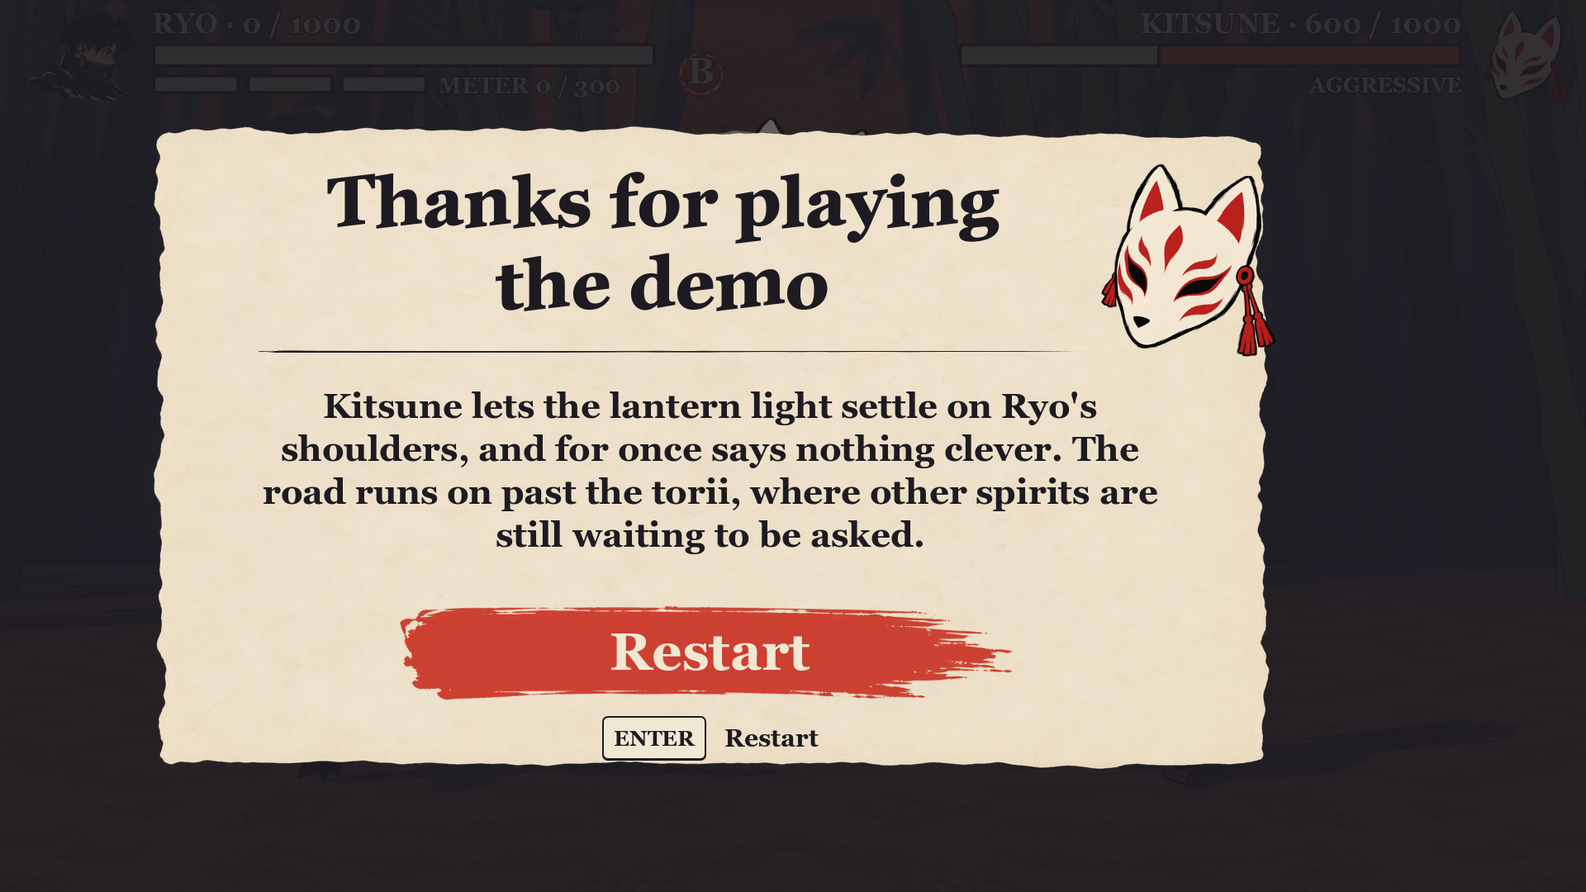
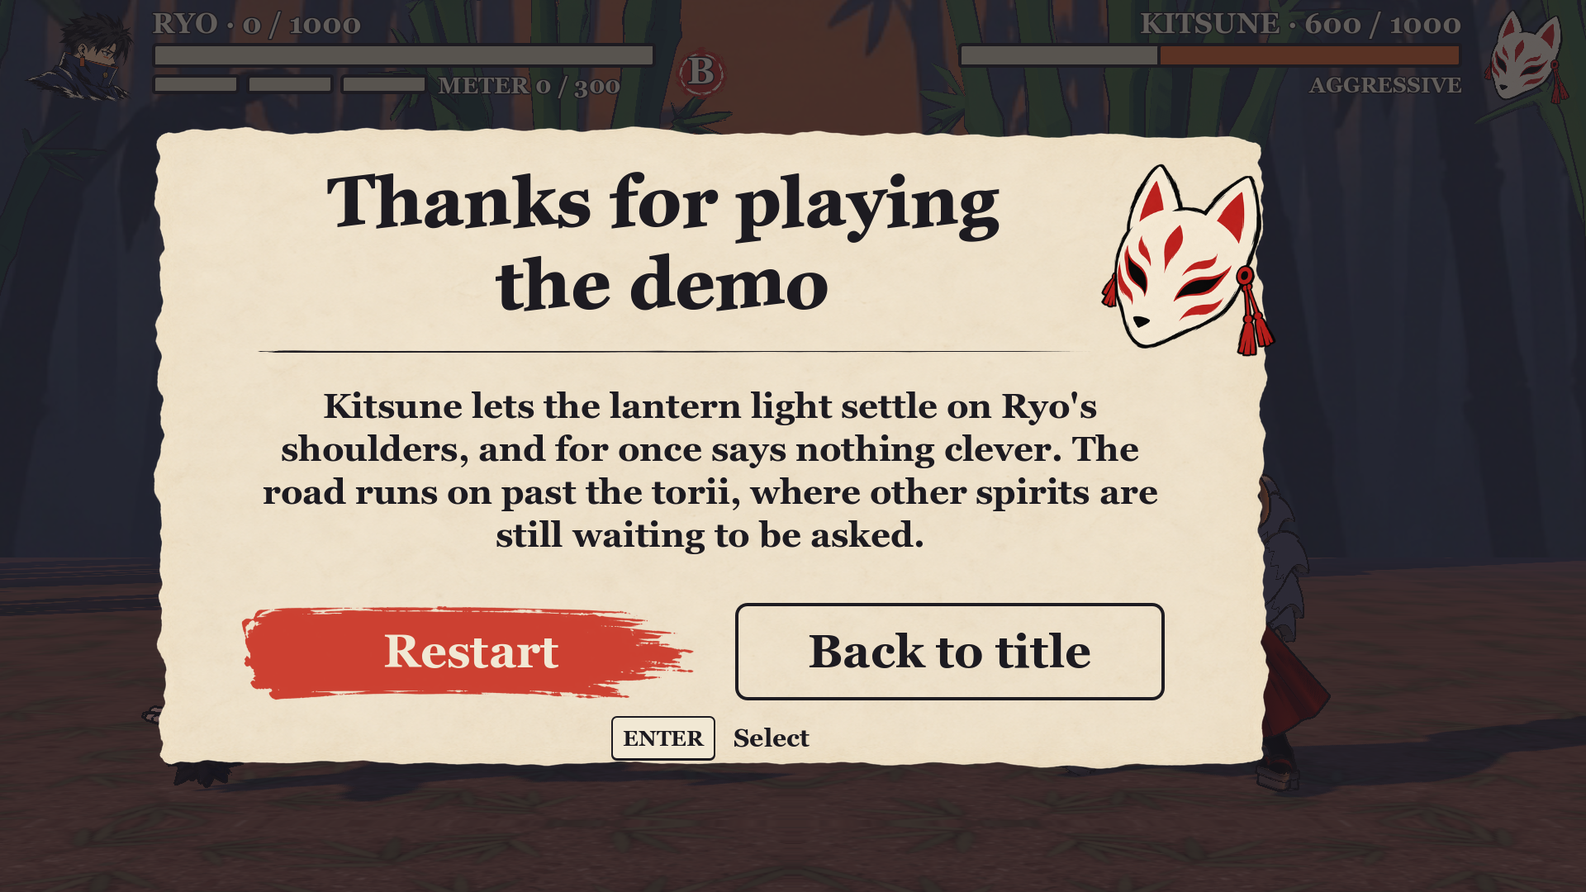
YOK-72: Back to title on the defeat and demo-complete screens
Ghost button beside Restart, routed through FightScene.RequestTitle like the pause
menu's Quit to title. The run has already ended, so the save holds no run.
Tests for routing, keyboard/pad and the save; captures at 1080p and 720p.

Claude-Session: https://claude.ai/code/session_01Q6LcGRk6VjhntCTFgSprQA

diff --git a/game/tests/EndScreenTitleTests.cs b/game/tests/EndScreenTitleTests.cs
@@ -1,0 +1,177 @@
+using System;
+using System.IO;
+using System.Linq;
+using Godot;
+using YokaiFighters.Fight;
+using YokaiFighters.Flow;
+using YokaiFighters.Sim;
+using YokaiFighters.Ui;
+
+namespace YokaiFighters.Tests;
+
+/// <summary>
+/// YOK-72: "Back to title" beside Restart on the lose screen and the demo-complete card. Both route through
+/// <see cref="FightScene.RequestTitle"/> like the pause menu's Quit to title; the run has ended by then, so the saved run is
+/// already gone and the title offers no Continue. A press outside the end stages, or with no boot flow, changes nothing.
+/// </summary>
+public static class EndScreenTitleTests
+{
+	static readonly FighterInput Idle = FighterInput.None;
+	static FighterInput Strike(int t) => new(t % 2 == 0 ? InputBits.DebugStrike : InputBits.None);
+	static void Press(Button b) => b.EmitSignal(BaseButton.SignalName.Pressed);
+	static void Push(Node n, InputEvent e) => n.GetViewport().PushInput(e);
+	static void Tap(Node n, Key k)
+	{
+		Push(n, new InputEventKey { Keycode = k, PhysicalKeycode = k, Pressed = true });
+		Push(n, new InputEventKey { Keycode = k, PhysicalKeycode = k, Pressed = false });
+	}
+	static void PadTap(Node n, JoyButton b)
+	{
+		Push(n, new InputEventJoypadButton { ButtonIndex = b, Pressed = true, Pressure = 1f });
+		Push(n, new InputEventJoypadButton { ButtonIndex = b, Pressed = false });
+	}
+
+	static void LoseDuel(FightScene s)
+	{
+		for (int t = 0; t < 600 && s.Match.Phase != MatchPhase.Over; t++) s.Step(Idle, Strike(t));
+		Assert.Equal(1, s.Match.Winner, "Kitsune won");
+	}
+	static void WinDuel(FightScene s, int taken)
+	{
+		for (int t = 0; t < taken * 2; t++) s.Step(Idle, Strike(t));
+		for (int t = 0; t < 600 && s.Match.Phase != MatchPhase.Over; t++) s.Step(Strike(t), Idle);
+		Assert.Equal(0, s.Match.Winner, "Ryo won");
+	}
+
+	/// <summary>A standalone fight in a viewport of its own (clean focus and input).</summary>
+	static void WithScene(Node runner, Action<FightScene> body)
+	{
+		var saved = FightScene.Sources; var savedRun = FightScene.Run;
+		FightScene.Sources = FightScene.FixtureSources; FightScene.Run = null;
+		var stage = new SubViewport { Size = new Vector2I(1920, 1080), Name = "EndTitleStage" };
+		runner.AddChild(stage);
+		try
+		{
+			var s = GD.Load<PackedScene>("res://scenes/fight.tscn").Instantiate<FightScene>();
+			s.ExternalDrive = true; s.FixedRunSeed = 72;
+			s.HeldBitsSource = () => InputBits.None;
+			stage.AddChild(s);
+			body(s);
+		}
+		finally { runner.RemoveChild(stage); stage.QueueFree(); FightScene.Sources = saved; FightScene.Run = savedRun; }
+	}
+
+	static void ReachComplete(FightScene s)
+	{
+		WinDuel(s, 1);
+		s.BindingCard.Continue();
+		var cards = s.Draft!.Offer.Cards;
+		int i = cards.ToList().FindIndex(c => c.Kind == Ui.CardKind.Modifier);
+		while (s.Rewards.CardCursor != i) s.Rewards.Move(1);
+		s.Rewards.Confirm(); s.Rewards.Confirm();
+		WinDuel(s, 0);
+		Assert.Equal(DemoStage.Complete, s.Stage, "demo complete");
+	}
+
+	[Test]
+	public static void LoseScreen_BackToTitle_RoutesOnce_RestartStillWorks(Node runner) => WithScene(runner, s =>
+	{
+		int titles = 0; s.TitleRequested += () => titles++;
+		Assert.True(!s.LeaveForTitle() && titles == 0, "refused mid-fight, nothing raised");
+		LoseDuel(s);
+		var lose = s.GetNode<LoseScreen>("Hud/LoseScreen");
+		Assert.True(lose.Visible && lose.BackToTitle.Visible, "lose screen with the button");
+		Assert.True(lose.BackToTitle.GetParent() == lose.Restart.GetParent() && lose.Restart.GetNode(lose.Restart.FocusNeighborRight) == lose.BackToTitle, "beside Restart, reachable by right");
+		Assert.True(lose.Restart.GetNode(lose.BackToTitle.FocusNeighborLeft) == lose.Restart, "and back by left");
+		Press(lose.BackToTitle);
+		Assert.Equal(1, titles, "Back to title raised TitleRequested once");
+		Press(lose.Restart);
+		Assert.Equal(1, titles, "Restart does not route to the title");
+		Assert.Equal(DemoStage.Fighting, s.Stage, "Restart gave a fresh run");
+	});
+
+	[Test]
+	public static void LoseScreen_KeyboardAndPad_ReachBackToTitle(Node runner) => WithScene(runner, s =>
+	{
+		int titles = 0; s.TitleRequested += () => titles++;
+		LoseDuel(s);
+		var lose = s.GetNode<LoseScreen>("Hud/LoseScreen");
+		Assert.True(lose.Restart.HasFocus(), "Restart focused first");
+		Tap(s, Key.Right);
+		Assert.True(lose.BackToTitle.HasFocus(), "Right moves to Back to title");
+		Tap(s, Key.Enter);
+		Assert.Equal(1, titles, "Enter presses it");
+		lose.Restart.GrabFocus();
+		PadTap(s, JoyButton.DpadRight);
+		Assert.True(lose.BackToTitle.HasFocus(), "pad d-pad moves too");
+		PadTap(s, JoyButton.A);
+		Assert.Equal(2, titles, "pad A presses it");
+	});
+
+	[Test]
+	public static void DemoComplete_BackToTitle_RoutesOnce(Node runner) => WithScene(runner, s =>
+	{
+		int titles = 0; s.TitleRequested += () => titles++;
+		ReachComplete(s);
+		var c = s.CompleteScreen;
+		Assert.True(c.Restart.HasFocus(), "Restart focused first");
+		Tap(s, Key.Right);
+		Assert.True(c.BackToTitle.HasFocus(), "Right moves to Back to title");
+		Tap(s, Key.Enter);
+		Assert.Equal(1, titles, "Enter routes to the title once");
+		Assert.Equal(DemoStage.Complete, s.Stage, "the scene itself did not restart; the boot flow owns the switch");
+		Press(c.Restart);
+		Assert.Equal(1, titles, "Restart does not route to the title");
+		Assert.Equal(DemoStage.Fighting, s.Stage, "Restart gave a fresh run");
+	});
+
+	[Test]
+	public static void BackToTitle_WithNoBootFlow_StaysOnTheScreen(Node runner) => WithScene(runner, s =>
+	{
+		LoseDuel(s);
+		Press(s.GetNode<LoseScreen>("Hud/LoseScreen").BackToTitle);
+		Assert.True(s.GetNode<Control>("Hud/LoseScreen").Visible && s.Stage == DemoStage.Lost, "nothing listening: the lose screen stays");
+	});
+
+	[Test]
+	public static void LoseScreen_BackToTitle_ThroughBootFlow_LeavesTheSaveWithoutARun(Node runner)
+	{
+		string dir = Path.Combine(Path.GetTempPath(), "yokai-endtitle-" + Guid.NewGuid().ToString("N"));
+		Directory.CreateDirectory(dir);
+		string save = Path.Combine(dir, "progress.json");
+		var saved = FightScene.Sources; var savedRun = FightScene.Run; var savedFoe = FightScene.Opponent;
+		FightScene.Sources = FightScene.FixtureSources; FightScene.Run = null;
+		MenuSettings.Reset();
+		var flow = GD.Load<PackedScene>("res://scenes/boot.tscn").Instantiate<GameFlow>();
+		flow.QuitAction = () => { };
+		flow.FixedRunSeed = 72;
+		flow.SaveFile = save;
+		flow.ConfigureFight = f => { f.ExternalDrive = true; f.HeldBitsSource = () => InputBits.None; };
+		var stage = new SubViewport { Size = new Vector2I(1920, 1080), Name = "EndTitleBootStage" };
+		runner.AddChild(stage);
+		try
+		{
+			stage.AddChild(flow);
+			Press(flow.Title.StartButton);
+			Press(flow.ControlSelect.Start);
+			Assert.True(flow.ChooseNode(flow.Session!.Reachable()[0]).Ok, "entered the first node");
+			Assert.True(flow.Saved.Run != null && File.Exists(save), "the run is saved while it lives");
+			string held = File.ReadAllText(save);
+			var fight = flow.Fight!;
+			LoseDuel(fight);
+			Assert.True(flow.Saved.Run == null, "the run ended: the saved run is gone");
+			Assert.True(File.ReadAllText(save) != held, "and the file on disk was rewritten without it");
+			Press(fight.GetNode<LoseScreen>("Hud/LoseScreen").BackToTitle);
+			Assert.Equal(Screen.Title, flow.Router.Current, "back on the title");
+			Assert.True(flow.Fight == null && flow.Title.Visible, "fight freed, title shown");
+			Assert.True(flow.Title.ContinueButton.Disabled, "no Continue for the ended run");
+		}
+		finally
+		{
+			runner.RemoveChild(stage); stage.QueueFree();
+			MenuSettings.Reset();
+			FightScene.Sources = saved; FightScene.Run = savedRun; FightScene.Opponent = savedFoe;
+			try { Directory.Delete(dir, true); } catch (IOException) { }
+		}
+	}
+}

diff --git a/game/scripts/Fight/FightScene.Flow.cs b/game/scripts/Fight/FightScene.Flow.cs
@@ -89,6 +89,16 @@ public partial class FightScene
 		TitleRequested.Invoke();
 		return true;
 	}
+	/// <summary>YOK-72: Back to title on the lose and demo-complete screens. Same route as the pause menu's Quit to title.
+	/// The run has already ended by then, so the boot flow cleared the saved run when it ended (YOK-87) and the title offers no Continue.
+	/// With no boot flow listening (scene on its own) nothing changes and the screen stays.</summary>
+	public bool LeaveForTitle()
+	{
+		if (Stage is not (DemoStage.Lost or DemoStage.Complete)) return false;
+		if (RequestTitle()) return true;
+		GD.Print("FightScene: Back to title with no boot flow listening (scene opened on its own); staying on the end screen");
+		return false;
+	}
 	/// <summary>Buttons held when the fight was entered (Start Game) or a Restart was pressed: ignored as P1 input until released, so Space does not fire a Special.</summary>
 	private InputBits _suppress;
 	/// <summary>Which fight of the walk this is: 1 = the first node (the demo: 1 = the first fight, 2 = the rematch).</summary>
@@ -174,6 +184,7 @@ public partial class FightScene
 		Rewards.Picked += (_, _) => FinishNode();
 		CompleteScreen = GetNode<DemoCompleteScreen>("Flow/Complete");
 		CompleteScreen.RestartRequested += RestartRun;
+		CompleteScreen.TitleRequested += () => LeaveForTitle();
 		ApplyDemoCompleteCard();
 		if (!ExternalDrive) _suppress = HeldBits(); // entered from a menu: the Space/A that pressed Start Game must not fire a Special
 		if (!OS.IsDebugBuild()) { GetNode("DebugMenuLayer").QueueFree(); return; } // the debug menu is for debug builds only

diff --git a/game/scripts/Fight/DemoCompleteScreen.cs b/game/scripts/Fight/DemoCompleteScreen.cs
@@ -12,8 +12,9 @@ namespace YokaiFighters.Fight;
 /// </summary>
 public partial class DemoCompleteScreen : Control
 {
-	public event Action? RestartRequested;
+	public event Action? RestartRequested, TitleRequested;
 	public Button Restart { get; private set; } = null!;
+	public Button BackToTitle { get; private set; } = null!;
 	/// <summary>Placeholders until <see cref="SetText"/> fills them from data/story/demo-complete.json.</summary>
 	public const string PlaceholderTitle = "Demo complete", PlaceholderText = "Thanks for playing.";
 	public string TitleText { get; private set; } = PlaceholderTitle;
@@ -31,12 +32,14 @@ public partial class DemoCompleteScreen : Control
 
 	public override void _Ready()
 	{
-		UiFind.Get<KeyChipFooter>(this, "Footer").SetHints(new KeyHint("confirm", "Restart"));
+		UiFind.Get<KeyChipFooter>(this, "Footer").SetHints(new KeyHint("confirm", "Select"));
 		_title = UiFind.Get<Label>(this, "Title");
 		_sub = UiFind.Get<Label>(this, "Sub");
 		Restart = UiFind.Get<Button>(this, "Restart");
 		_title.Text = TitleText; _sub.Text = BodyText;
+		BackToTitle = UiFind.Get<Button>(this, "BackToTitle");
 		Restart.Pressed += () => RestartRequested?.Invoke();
+		BackToTitle.Pressed += () => TitleRequested?.Invoke();
 		Visible = false;
 	}
 

diff --git a/game/scripts/Fight/LoseScreen.cs b/game/scripts/Fight/LoseScreen.cs
@@ -14,19 +14,22 @@ public partial class LoseScreen : Control
 {
 	public const string PlaceholderTitle = "Ryo is defeated", PlaceholderText = "The yokai slips free.";
 
-	public event Action? RestartRequested;
+	public event Action? RestartRequested, TitleRequested;
 	public string Title { get; private set; } = PlaceholderTitle;
 	public string Text { get; private set; } = PlaceholderText;
 	public Button Restart { get; private set; } = null!;
+	public Button BackToTitle { get; private set; } = null!;
 	private Label? _title, _text;
 
 	public override void _Ready()
 	{
-		UiFind.Get<KeyChipFooter>(this, "Footer").SetHints(new KeyHint("confirm", "Restart"));
+		UiFind.Get<KeyChipFooter>(this, "Footer").SetHints(new KeyHint("confirm", "Select"));
 		_title = UiFind.Get<Label>(this, "Title");
 		_text = UiFind.Get<Label>(this, "Sub");
 		Restart = UiFind.Get<Button>(this, "Restart");
+		BackToTitle = UiFind.Get<Button>(this, "BackToTitle");
 		Restart.Pressed += () => RestartRequested?.Invoke();
+		BackToTitle.Pressed += () => TitleRequested?.Invoke();
 		_title.Text = Title; _text.Text = Text;
 		Visible = false;
 	}

diff --git a/game/scripts/Fight/FightHud.cs b/game/scripts/Fight/FightHud.cs
@@ -26,6 +26,8 @@ public partial class FightHud : CanvasLayer
 
 	/// <summary>Raised by the lose screen's Restart button; the scene wires it to its reset path.</summary>
 	public event Action? RestartRequested;
+	/// <summary>Raised by the lose screen's Back to title button; the scene routes it to <c>LeaveForTitle</c>.</summary>
+	public event Action? TitleRequested;
 
 	private Label _banner = null!, _meterText = null!;
 	private LoseScreen _lose = null!;
@@ -39,6 +41,7 @@ public partial class FightHud : CanvasLayer
 		_banner = UiFind.Get<Label>(this, "Banner");
 		_lose = UiFind.Get<LoseScreen>(this, "LoseScreen");
 		_lose.RestartRequested += () => RestartRequested?.Invoke();
+		_lose.TitleRequested += () => TitleRequested?.Invoke();
 		for (int i = 0; i < 2; i++)
 		{
 			_health[i] = UiFind.Get<ProgressBar>(this, $"P{i + 1}Health");

diff --git a/game/scripts/Fight/FightScene.cs b/game/scripts/Fight/FightScene.cs
@@ -201,6 +201,7 @@ public partial class FightScene : Node3D
 		_camera = _cameraRig.FindChild("Camera", true, false) as Camera3D ?? throw new System.InvalidOperationException("camera_rig.tscn: no Camera3D named 'Camera'");
 		_hud = GetNode<FightHud>("Hud"); // YOK-39: scenes/ui/hud.tscn, an instance in fight.tscn
 		_hud.ShowOpponent(Opponent); // YOK-77: the HUD's own _Ready ran before the node set the opponent
+		_hud.TitleRequested += () => LeaveForTitle();
 		_hud.RestartRequested += RestartRun; // YOK-48: Restart = a fresh run from the first fight
 		_hud.View = new MatchHudView(Match, 0); // YOK-20: Ryo's live meter and burst
 		ApplyLoseCard(); // YOK-44: the lose-screen story card, {yokai} = the opponent

diff --git a/game/tests/HudCapture.cs b/game/tests/HudCapture.cs
@@ -22,6 +22,7 @@ public partial class HudCapture : Node
 		for (int t = 0; t < 600 && scene.Match.Phase != MatchPhase.Over; t++)
 			scene.Step(FighterInput.None, new FighterInput(t % 2 == 0 ? InputBits.DebugStrike : InputBits.None));
 		await Snap(dir + "/hud_lose.png");
+		scene.GetNode<Control>("Hud/LoseScreen").Visible = false; // the card, not both stacked
 		scene.CompleteScreen.Show();
 		await Snap(dir + "/demo_complete.png");
 		GetTree().Quit();

diff --git a/docs/codebase-map.md b/docs/codebase-map.md
@@ -118,7 +118,7 @@ Pure C# (no Godot), deterministic. Y1/Y2/Y4/P6: P2 plays from a behaviour profil
 |---|---|
 | `FightScene.cs` (`scenes/fight.tscn`) | Owns `Match` + `FixedStepClock`; each `_Process` runs the due ticks then `Render()`s. Stage in `FightScene.Stage.cs` (YOK-39), capsule fighters (YOK-53: hidden under the rigged models, see `FightScene.Models.cs`; mirrored by `Scale.X = Facing`, "Nose" marks facing; KO'd fighter tips over across the 30 slow frames), camera = `scenes/camera_rig.tscn` instanced as `CameraRig` (YOK-39: `Camera` child, FOV 25° in the scene, F4; `Render` puts the rig at `Cam.Transform` (YOK-129 `DynamicCamera`: position + pitch, stepped once per sim tick in `StepSim`, snapped on a new or reset match; `CameraPushIn` for the V7 Tanuki reveal), shake via the camera's H/V offset; `Camera`/`CameraRig` properties), 200 units per metre, fixed Z = 0. `ExternalDrive` + `Step()` let tests/harness drive it without the clock or keyboard. Moves (YOK-56): `NewMatch()` loads P1 = `Kit.Ryo`, P2 = `FightScene.Opponent` (default "kitsune", the AI loadout) through `LoadKit(fighter)` from `FightScene.Sources` (`KitSources.Repo`; tests swap in `FightScene.FixtureSources` and restore it). `LoadMoves(fighter = ryo)` / `LoadSpecials(fighter = ryo)` return that kit; `LoadAbilityPool()` = `AbilityPool.Load(Sources, data/modifiers)`. Controls: `InputDevices.Read(player)` (E9) feeds raw bits to `Match`; each fighter's `InputReader` parses them in the sim. YOK-23 (minimum of YOK-25): `FightScene.DefaultScheme` (Kihon for the demo) is applied to both fighters in `NewMatch()`; `SchemeOf`/`SetScheme(player, scheme)`/`ToggleScheme(player)` per player, safe mid-fight; no rebinding UI. R resets after KO. Ryo's kit adds the TEST FIXTURE normals in `tests/fixtures/ryo-normals/`, throw in `tests/fixtures/throws/` (YOK-19) and jump-ins per kind while `data/moves/` has none of his of that kind. Crouch shows as a squashed capsule (placeholder). YOK-21: `NewMatch()` equips each fighter's kit specials (A1: each into its own slot, Lv 1; Ryo = starters, Kitsune = Foxfire in C; `EquipStarters` kept for tests); projectiles render as glowing placeholder boxes sized from their hitbox. Every `Match.Step` goes through `StepSim` (YOK-49 recording). |
 | `FightScene.Ai.cs` | YOK-57: `TierOf(node)` = Tanuki (boss / copy-lock node or tier "tanuki"), Elder (`Elder` flag or tier "elder"), else Standard; passed to `ProfileAi` in `RebuildAi`. YOK-27 partial: P2 is `ProfileAi`-driven by default (`P2Input()` = `ai.Next(AiView.Capture(Match))`, else `InputDevices.Read(1)`). `LoadProfiles()`: kitsune profiles in `data/profiles/`, else the TEST FIXTURE profiles in `tests/fixtures/profiles/` (aggressive first). `RebuildAi()` on `_Ready`/reset/swap (fresh delay buffer, `AiSeed` 27). Debug builds: **F6** swaps temperament, **F7** toggles P2 AI/keyboard (`SwapTemperament`, `ToggleP2Ai`). `StepWithAi(p1)` for ExternalDrive tests. |
-| `FightScene.Flow.cs` | YOK-48 partial, the YOK-39 demo flow. **YOK-77:** each fight is now one node of a `RunSession` (see Run flow): `DemoRun` = `Session.Run`, the win path calls `Session.WinFight` / `CompleteNode` (`StartRematch` became `FinishNode`: on its own the scene enters the next node, hosted it sets `DemoStage.Left` and the boot flow shows the map), a loss calls `Session.LoseFight`, `DemoDuels` became `Duels`, the last node shows the end card (demo text on its own, a placeholder when hosted). What follows describes the scene on its own (the demo map). `_Ready` starts with `SetUpRun()` (`Pool = LoadAbilityPool()`, `DemoRun = Run ?? RunState.NewRun(pool)`, `Match = NewMatch(DemoRun)`) and ends with `SetUpFlow()` (CanvasLayer "Flow": `BindingCard` (`Ui.StoryCard`), `Rewards` (`Ui.RewardScreen`), `CompleteScreen`; debug builds: `DebugMenu`). `CheckDuelOver()` runs after every step (clock loop and `Step`): once per duel it finishes the recording into `DuelRecordings` (Recorder = null until the next fight); loss (or double KO) → `Stage = Lost` (HUD lose screen); win → `DemoRun.AfterDuel(P1.Health)` (R3), duel 1 → `Draft = DraftRewardSource(RewardDraft.Build(DemoRun, Pool, Opponent, RunSeed + Duel))` + binding line card → `ShowRewards` → `Picked` → `StartRematch()` (`ReplaceMatch(NewMatch(DemoRun))`: new HUD view, impact/shake, AI, recording, clock); duel 2 → `Stage = Complete`. `RestartRun()` (HUD lose Restart, demo-complete Restart, debug menu) = fresh `RunState`, duel 1, recordings cleared. `DemoStage` Fighting/Binding/Reward/Complete/Lost (no Title stage: the scene always starts in the fight; menus are the boot flow's), `PlayerScheme` (null = `DefaultScheme`; set by `GameFlow` before the scene enters the tree and applied to P1 in every duel through `NewDuel()`), `RequestTitle()` / `TitleRequested` (leave for the title; false when the scene runs on its own), `P1Live()` masks buttons held on entry (not `ExternalDrive`) or at Restart until released, `Duel` 1-2, `DemoDuels` 2. Debug: **F9** `ToggleDebugMenu()` (pauses `_Process` stepping; clock restarted on close), `SetTemperament("patient")`, `Temperament`, `--temperament=<t>` user arg. `ResetFight()` (R after KO) replays the current duel and closes the flow screens. |
+| `FightScene.Flow.cs` | YOK-48 partial, the YOK-39 demo flow. **YOK-77:** each fight is now one node of a `RunSession` (see Run flow): `DemoRun` = `Session.Run`, the win path calls `Session.WinFight` / `CompleteNode` (`StartRematch` became `FinishNode`: on its own the scene enters the next node, hosted it sets `DemoStage.Left` and the boot flow shows the map), a loss calls `Session.LoseFight`, `DemoDuels` became `Duels`, the last node shows the end card (demo text on its own, a placeholder when hosted). What follows describes the scene on its own (the demo map). `_Ready` starts with `SetUpRun()` (`Pool = LoadAbilityPool()`, `DemoRun = Run ?? RunState.NewRun(pool)`, `Match = NewMatch(DemoRun)`) and ends with `SetUpFlow()` (CanvasLayer "Flow": `BindingCard` (`Ui.StoryCard`), `Rewards` (`Ui.RewardScreen`), `CompleteScreen`; debug builds: `DebugMenu`). `CheckDuelOver()` runs after every step (clock loop and `Step`): once per duel it finishes the recording into `DuelRecordings` (Recorder = null until the next fight); loss (or double KO) → `Stage = Lost` (HUD lose screen); win → `DemoRun.AfterDuel(P1.Health)` (R3), duel 1 → `Draft = DraftRewardSource(RewardDraft.Build(DemoRun, Pool, Opponent, RunSeed + Duel))` + binding line card → `ShowRewards` → `Picked` → `StartRematch()` (`ReplaceMatch(NewMatch(DemoRun))`: new HUD view, impact/shake, AI, recording, clock); duel 2 → `Stage = Complete`. `RestartRun()` (HUD lose Restart, demo-complete Restart, debug menu) = fresh `RunState`, duel 1, recordings cleared. `DemoStage` Fighting/Binding/Reward/Complete/Lost (no Title stage: the scene always starts in the fight; menus are the boot flow's), `PlayerScheme` (null = `DefaultScheme`; set by `GameFlow` before the scene enters the tree and applied to P1 in every duel through `NewDuel()`), `RequestTitle()` / `TitleRequested` (leave for the title; false when the scene runs on its own), `LeaveForTitle()` (YOK-72: the lose and demo-complete "Back to title" buttons; only in `Lost`/`Complete`; the run has already ended so the save holds no run; `tests/EndScreenTitleTests.cs`), `P1Live()` masks buttons held on entry (not `ExternalDrive`) or at Restart until released, `Duel` 1-2, `DemoDuels` 2. Debug: **F9** `ToggleDebugMenu()` (pauses `_Process` stepping; clock restarted on close), `SetTemperament("patient")`, `Temperament`, `--temperament=<t>` user arg. `ResetFight()` (R after KO) replays the current duel and closes the flow screens. |
 | `StartScreen.cs` (`scenes/ui/start_screen.tscn`) | Boot control select rebuilt to the concept with kit night backdrop, paper sheet, live Controls heading, two wide Kata/Kihon choice rows with a selection frame, Start Game, fox-mask ornament and device-aware key-chip footer. `MenuSettings.Scheme` remains shared with settings; Q / pad X flips, Esc / pad B goes back, `Started` fires once per `Open()`. A keyboard/pad-focusable **Controls reference** toggle replaces the scheme rows with both live binding tables (`InputDevices.P1Keys` / `PadMap`, `Rows(scheme)`), specials line and debug hints. Start and back stay available; reopening restores the concept layout. K1 copy says +10% precision bonus on motion-input specials. Tests: `StartScreenTests`, `BootScreenLayoutTests`, existing boot/input tests. |
 | `DemoScreens.cs` | YOK-48: `DemoCompleteScreen` (talisman card, title and text from `data/story/demo-complete.json` via `SetText` (`FightScene.ApplyDemoCompleteCard`, `{yokai}` = opponent display name; "Demo complete" / "Thanks for playing." placeholder if the card is missing), `Restart` button → `RestartRequested`), `DemoDebugMenu` (`Box/Temperament_<t>` per loaded profile, `Box/RestartRun`, `Box/Resume`), `DemoUi` label/button helpers in the HUD's seal style. |
 | `FightScene.Pause.cs` | YOK-pause-flow-wiring partial, the in-fight pause. `fight.tscn` instances `ui/pause_menu.tscn` as `PauseLayer/Pause` (CanvasLayer 15: over the HUD and Flow layer 5, under the debug menu 20). Esc / pad Start (`MenuInput.Pause`, in `_UnhandledInput`) → `TryPause()`: fills `PauseMenu.SetRunSummary(BuildPauseSummary())` (both fighters' health from the `Match`, `"Duel n of 2 · vs <yokai>"`, slots A-D with level and modifier from `DemoRun`), rebinds the move list, opens the menu. **The tree is not paused** (`PauseMenu.FreezeTree = false`): while `Paused` (= the menu is open) `_Process` only runs `PausedFrame()` (no tick, nothing recorded, clock restarted, `Render()` re-seeks the same frame) and `Step()` is refused; `FlowPaused` includes it. `CanPause`: `PauseEnabled ?? !ExternalDrive` (tests/harness have no pause unless they set `PauseEnabled = true`), `Stage == Fighting`, match not over, F9 debug menu closed; so never over the binding card, reward, lose or demo-complete screens. Resume → `EndPause()`: attack buttons / Special that are down but were not held on every frame from the last sim tick (`_lastP1`, set in `StepSim`) through the pause go into `_suppress` until released (`ResumeMask`, `PauseMaskable`); directions and buttons held right through carry on. Restart (confirmed) → `RestartRun()` (which also closes the menu when called from elsewhere); Quit to title (confirmed) → `RequestTitle()`, or resume when no boot flow listens; Move list / Settings are the menu's own sheets and return to it. `HeldBitsSource` = test seam for the live P1 device read. |
